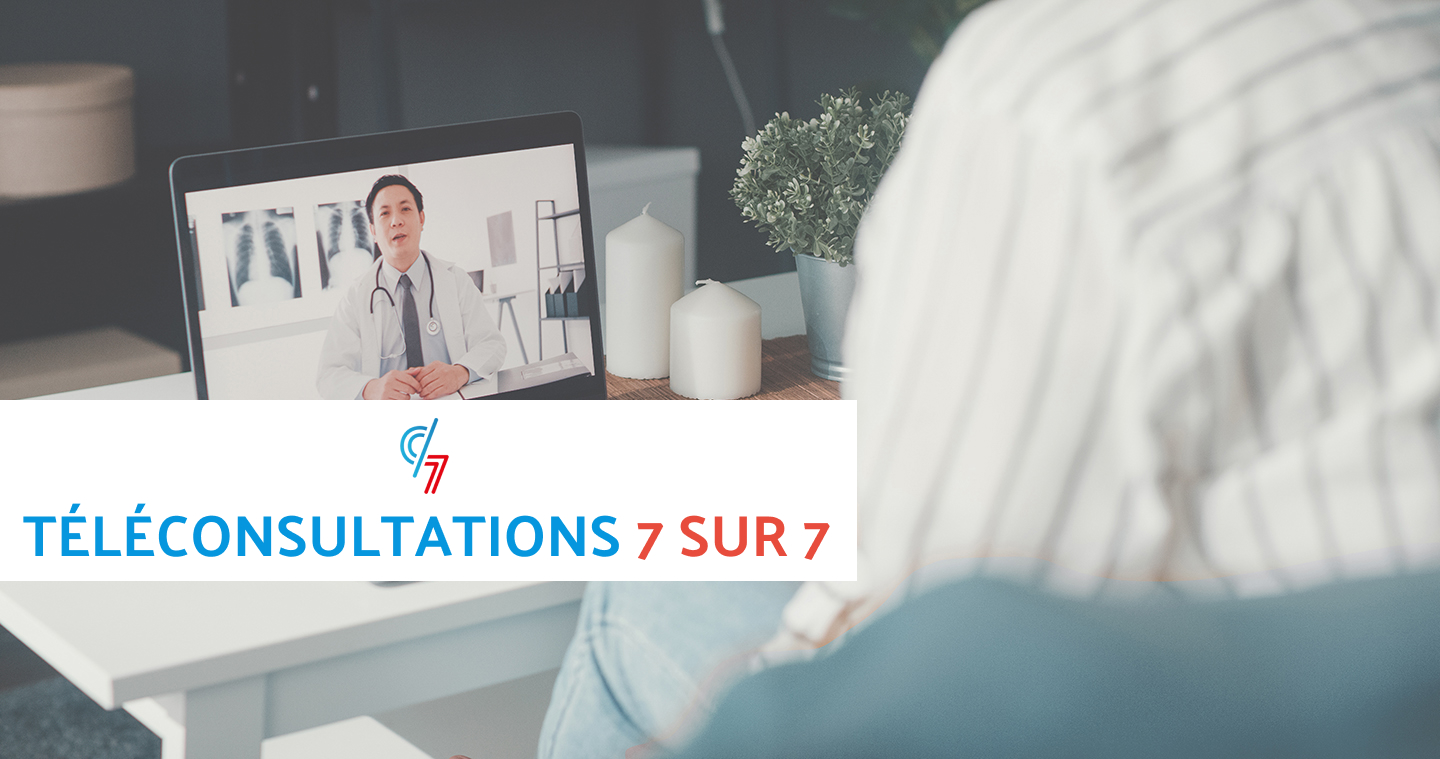
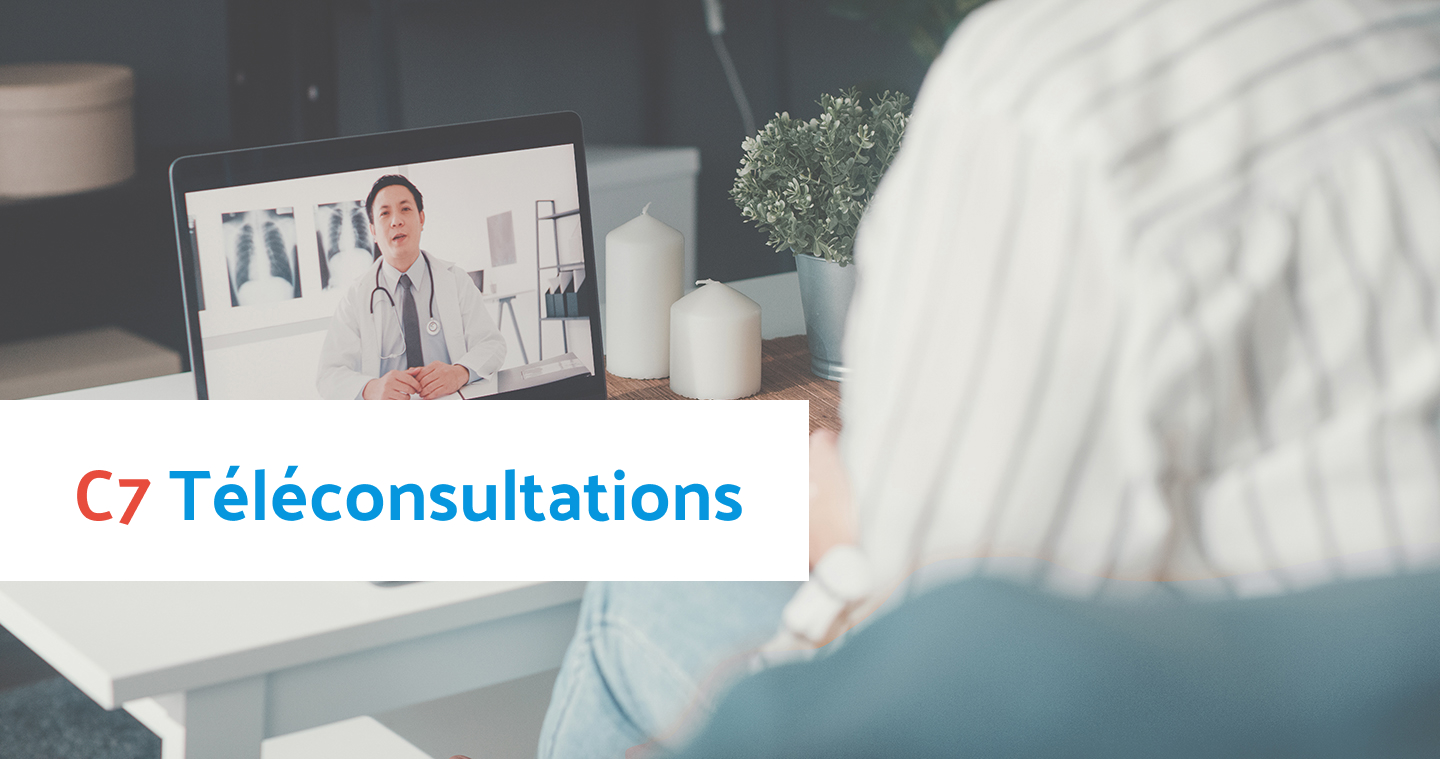
Changements Janvier 2023

Changed region(s): [[0.0, 0.5152, 0.5938, 0.7879]]

diff --git a/src/pages/mention-legales.js b/src/pages/mention-legales.js
@@ -14,30 +14,30 @@ const MentionsLegales = () => (
         En vertu de l'article 6 de la loi n° 2004-575 du 21 juin 2004 pour la
         confiance dans l'économie numérique, il est précisé aux utilisateurs du
         site internet{" "}
-        <a href="https://www.consultations77.org/">
-          https://www.consultations77.org/
+        <a href="https://www.c7sante.org/">
+          https://www.c7sante.org/
         </a>{" "}
         l'identité des différents intervenants dans le cadre de sa réalisation
-        et de son suivi: Propriétaire du site : Consultations 7 sur 7 - Contact
-        : secretariat@consultations77.org - Adresse : 39 b rue Lamartine 06000
-        Nice . Identification de l'entreprise : SELAS Consultations 7 sur 7 au
+        et de son suivi: Propriétaire du site : C7 Santé - Contact
+        : secretariat@c7sante.org - Adresse : 39 b rue Lamartine 06000
+        Nice . Identification de l'entreprise : SELAS C7 Santé au
         capital social de € - SIREN : 478293038 - RCS ou RM : - Adresse postale
         : 39 b rue Lamartine 06000 Nice . Directeur de la publication : -
         Contact : . Hébergeur : Gandi - 63-65 Boulevard Masséna, 75013 Paris -
         Téléphone : 01.70.37.76.61.<br></br>
-        Délégué à la protection des données : Serive Informatique - informatique@consultations77.org.
+        Délégué à la protection des données : Serive Informatique - informatique@c7sante.org.
       </p>
       <br></br>
       <h2>2 - Propriété intellectuelle et contrefaçons.</h2>
       <p>
-        Consultations 7 sur 7 est propriétaire des droits de propriété
+        C7 Santé est propriétaire des droits de propriété
         intellectuelle et détient les droits d’usage sur tous les éléments
         accessibles sur le site internet, notamment les textes, images,
         graphismes, logos, vidéos, architecture, icônes et sons. Toute
         reproduction, représentation, modification, publication, adaptation de
         tout ou partie des éléments du site, quel que soit le moyen ou le
         procédé utilisé, est interdite, sauf autorisation écrite préalable de
-        Consultations 7 sur 7. Toute exploitation non autorisée du site ou de
+        C7 Santé. Toute exploitation non autorisée du site ou de
         l’un quelconque des éléments qu’il contient sera considérée comme
         constitutive d’une contrefaçon et poursuivie conformément aux
         dispositions des articles L.335-2 et suivants du Code de Propriété
@@ -46,30 +46,30 @@ const MentionsLegales = () => (
       <br></br>
       <h2>3 - Limitations de responsabilité.</h2>
       <p>
-        Consultations 7 sur 7 ne pourra être tenu pour responsable des dommages
+        C7 Santé ne pourra être tenu pour responsable des dommages
         directs et indirects causés au matériel de l’utilisateur, lors de
         l’accès au site{" "}
-        <a href="https://www.consultations77.org/">
-          https://www.consultations77.org/
+        <a href="https://www.c7sante.org/">
+          https://www.c7sante.org/
         </a>
-        . Consultations 7 sur 7 décline toute responsabilité quant à
+        . C7 Santé décline toute responsabilité quant à
         l’utilisation qui pourrait être faite des informations et contenus
         présents sur{" "}
-        <a href="https://www.consultations77.org/">
-          https://www.consultations77.org/
+        <a href="https://www.c7sante.org/">
+          https://www.c7sante.org/
         </a>
-        . Consultations 7 sur 7 s’engage à sécuriser au mieux le site
-        <a href="https://www.consultations77.org/">
-          https://www.consultations77.org/
+        . C7 Santé s’engage à sécuriser au mieux le site
+        <a href="https://www.c7sante.org/">
+          https://www.c7sante.org/
         </a>
         , cependant sa responsabilité ne pourra être mise en cause si des
         données indésirables sont importées et installées sur son site à son
         insu. Des espaces interactifs (espace contact ou commentaires) sont à la
-        disposition des utilisateurs. Consultations 7 sur 7 se réserve le droit
+        disposition des utilisateurs. C7 Santé se réserve le droit
         de supprimer, sans mise en demeure préalable, tout contenu déposé dans
         cet espace qui contreviendrait à la législation applicable en France, en
         particulier aux dispositions relatives à la protection des données. Le
-        cas échéant, Consultations 7 sur 7 se réserve également la possibilité
+        cas échéant, C7 Santé se réserve également la possibilité
         de mettre en cause la responsabilité civile et/ou pénale de
         l’utilisateur, notamment en cas de message à caractère raciste,
         injurieux, diffamant, ou pornographique, quel que soit le support
@@ -80,22 +80,22 @@ const MentionsLegales = () => (
       <p>
         Conformément aux dispositions de la loi 78-17 du 6 janvier 1978
         modifiée, l’utilisateur du site{" "}
-        <a href="https://www.consultations77.org/">
-          https://www.consultations77.org/
+        <a href="https://www.c7sante.org/">
+          https://www.c7sante.org/
         </a>{" "}
         dispose d’un droit d’accès, de modification et de suppression des
         informations collectées. Pour exercer ce droit, envoyez un message à
         notre Délégué à la Protection des Données : Service Informatique -
-        informatique@consultations77.org. Pour plus d'informations sur la façon
+        informatique@c7sante.org. Pour plus d'informations sur la façon
         dont nous traitons vos données (type de données, finalité,
         destinataire...), lisez notre Politique de Confidentialité. Il est
         également possible de déposer une réclamation auprès de la CNIL.
         <br></br>
         Les données que vous venez de communiquer font l’objet d’un traitement automatisé dans le but de traiter et gérer votre candidature.
-        Il est effectué par Consultations 7 sur 7 39 b rue Lamartine 06000, en sa qualité de responsable de traitement .
+        Il est effectué par C7 Santé 39 b rue Lamartine 06000, en sa qualité de responsable de traitement .
         Ce traitement de données est nécessaire à l’exécution de votre candidature.
         <br></br>
-        La personne en charge de la protection des données peut être contactée à l’adresse email suivante informatique@consultations77.org.
+        La personne en charge de la protection des données peut être contactée à l’adresse email suivante informatique@c7sante.org.
         <br></br>
         Les données seront conservées deux ans après le dernier contact avec le candidat.
         Les données pourront être conservées par l’employeur pendant toute la durée du contrat de travail en cas d’embauche.
@@ -104,25 +104,25 @@ const MentionsLegales = () => (
         Le responsable de traitement s’engage à ne pas transférer vos données personnelles en dehors de l’Union européenne dans le cadre de ses opérations de traitement.
         <br></br>
         Vous disposez d’un droit d’accès, de rectification. Aussi, en cas de motifs légitimes vous disposez d’un droit de suppression, de limitation et d’opposition au traitement de vos données.
-        Vous bénéficiez également du droit à la portabilité de vos données. Et vous avez la possibilité de donner des directives concernant vos données en cas de décès. Vous un email à l’adresse informatique@consultations77.org pour exercer vos droits.
+        Vous bénéficiez également du droit à la portabilité de vos données. Et vous avez la possibilité de donner des directives concernant vos données en cas de décès. Vous un email à l’adresse informatique@c7sante.org pour exercer vos droits.
         Vous avez la possibilité de saisir la CNIL s’il ne vous était pas donné satisfaction. »
       </p>
       <br></br>
       <h2>5 - Liens hypertextes et cookies</h2>
       <p>
         Le site{" "}
-        <a href="https://www.consultations77.org/">
-          https://www.consultations77.org/
+        <a href="https://www.c7sante.org/">
+          https://www.c7sante.org/
         </a>{" "}
         contient des liens hypertextes vers d’autres sites et dégage toute
         responsabilité à propos de ces liens externes ou des liens créés par
         d’autres sites vers
-        <a href="https://www.consultations77.org/">
-          https://www.consultations77.org/
+        <a href="https://www.c7sante.org/">
+          https://www.c7sante.org/
         </a>
         . La navigation sur le site
-        <a href="https://www.consultations77.org/">
-          https://www.consultations77.org/
+        <a href="https://www.c7sante.org/">
+          https://www.c7sante.org/
         </a>{" "}
         est susceptible de provoquer l’installation de cookie(s) sur
         l’ordinateur de l’utilisateur. Un "cookie" est un fichier de petite
@@ -134,7 +134,7 @@ const MentionsLegales = () => (
         Les cookies sont enregistrés pour une durée maximale de 13 mois. Pour
         plus d'informations sur la façon dont nous faisons usage des cookies,
         lisez notre{" "}
-        <a href="https://www.consultations77.org/politique-confidentialite">
+        <a href="https://www.c7sante.org/politique-confidentialite">
           Politique de Confidentialité
         </a>
       </p>
@@ -142,7 +142,7 @@ const MentionsLegales = () => (
       <h2>6 - Droit applicable et attribution de juridiction.</h2>
       <p>
         Tout litige en relation avec l’utilisation du site
-        https://www.consultations77.org/ est soumis au droit français. En dehors
+        https://www.c7sante.org/ est soumis au droit français. En dehors
         des cas où la loi ne le permet pas, il est fait attribution exclusive de
         juridiction aux tribunaux compétents de .
       </p>

diff --git a/src/pages/index.js b/src/pages/index.js
@@ -9,7 +9,6 @@ import CardsSection from "../components/HomePage_sections/CardsSection"
 import MapHp from "../components/Map/MapHp"
 import AboutSection from "../components/HomePage_sections/AboutSection"
 import NumbersSection from "../components/HomePage_sections/NumbersSection"
-import PostSection from "../components/HomePage_sections/PostSection"
 import PostLink from "../components/PostLink/PostLink"
 import RecruitmentSection from "../components/HomePage_sections/RecruitmentSection"
 import Seo from "../components/seo"
@@ -18,8 +17,6 @@ import { closeBurger } from "../utils/burgerAnimation"
 
 const App = ({ data, location }) => {
   const siteTitle = data.site.siteMetadata?.title || `Title`
-  const posts = data.allMarkdownRemark.nodes
-  const Posts = posts.map((item, index) => <PostLink key={index} post={item} />)
   const dataCards = require('../data/dataCards.json')
   useEffect(() => {
     window.onpopstate = () => {
@@ -39,7 +36,6 @@ const App = ({ data, location }) => {
       <CardsSection arr={dataCards} />
       <NumbersSection />
       <AboutSection />
-      <PostSection posts={Posts} home={true} />
       <RecruitmentSection />
     </Layout>
   )

diff --git a/src/components/MapList/LiContent.js b/src/components/MapList/LiContent.js
@@ -25,20 +25,11 @@ const LiContent = ({ center }) => {
         <GatsbyImage image={image} alt={center.node.name} />
       </div>
       <div className="li-text-container">
-        {center.node.index !== 0 ? (
-          <h2>
-            <span>C</span>
-            <span className="red-seven">7</span>
-            {center.node.name}
-          </h2>
-        ) : (
-          <h2>
-            {center.node.name}
-            <span className="red-seven" style={{ paddingLeft: "5px" }}>
-              7 sur 7
-            </span>
-          </h2>
-        )}
+        <h2>
+          <span>C</span>
+          <span className="red-seven">7</span>
+          {center.node.name}
+        </h2>
         <p className="li-address">{center.node.address}</p>
         <br></br>
         {center.node.open

diff --git a/src/components/Footer/Footer.js b/src/components/Footer/Footer.js
@@ -16,7 +16,7 @@ const Footer = () => {
               width={150}
               quality={95}
               formats={["AUTO", "WEBP", "AVIF"]}
-              alt="Logo Consultations 7 sur 7"
+              alt="Logo C7 Santé"
               placeholder="blurred"
             />
           </Link>
@@ -25,7 +25,7 @@ const Footer = () => {
       <hr></hr>
       <div className="footer-second-section">
         <p>
-          Copyright © {new Date().getFullYear()} Consultations 7 sur 7, tous
+          Copyright © {new Date().getFullYear()} C7 Santé, tous
           droits réservés.
         </p>
         <div className="footer-link">

diff --git a/src/components/PagesHeader/PagesHeader.js b/src/components/PagesHeader/PagesHeader.js
@@ -7,12 +7,12 @@ const PagesHeader = ({ title }) => {
     <div className="pages-header-container">
       <div className="pages-header-title">
         <StaticImage
-          src="../../assets/images/c7-title.jpg"
-          width={1020}
-          height={150}
+          src="../../assets/images/c7sante.png"
+          width={100}
+          height={100}
           quality={95}
           formats={["AUTO", "WEBP", "AVIF"]}
-          alt="Logo Consultations 7 sur 7"
+          alt="Logo C7 Santé"
           placeholder="blurred"
         />
         <h1>{title}</h1>

diff --git a/src/utils/infoWindowScript.js b/src/utils/infoWindowScript.js
@@ -25,11 +25,11 @@ export const infoWindowImg = index => {
     case 5:
       return imgMandelieu
     case 6:
-      return imgNiceNord 
-    case 7:
-      return imgMenton
-    case 8:
       return imgCagnes
+    case 7:
+      return imgNiceNord
+    case 8:
+      return imgMenton
     case 9:
       return imgCannes 
     case 10:
